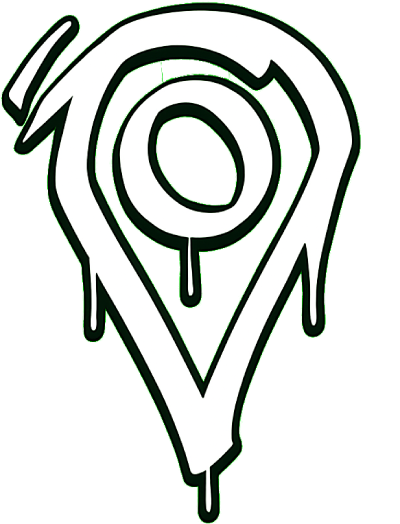
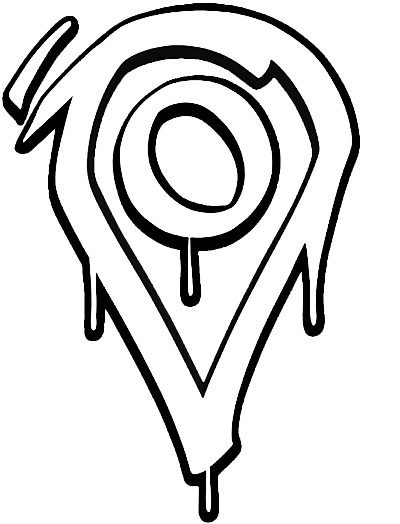
Update textures and fix pointer texture

diff --git a/js/config.js b/js/config.js
@@ -16,8 +16,8 @@ export const CONFIG = {
   },
   paths: {
     stickersJson: './data/stickers.json',
-    earthDay: './assets/materials/Earth_8k.jpg',
-    earthNight: './assets/materials/Night_8k.jpg',
+    earthDay: './assets/materials/Earth_16k.jpg',
+    earthNight: './assets/materials/Night_16k.jpg',
     moon: './assets/materials/Moon.jpg',
     mars: './assets/materials/Mars.jpg',
     mapPointer: './assets/materials/MapPointer.png'

diff --git a/js/scene.js b/js/scene.js
@@ -46,7 +46,7 @@ export function createScene(container) {
   const dotScreenPass = new DotScreenPass(new THREE.Vector2(0, 0), 0.5, 0.9);
   const renderPixelatedPass = new RenderPixelatedPass(2, scene, camera);
   const afterimagePass = new AfterimagePass(0.2);
-  const bloomPass = new UnrealBloomPass(resolution, 1, 0, 1);
+  const bloomPass = new UnrealBloomPass(resolution, 0.1, 0, 1);
 
   const effects = [
     {
